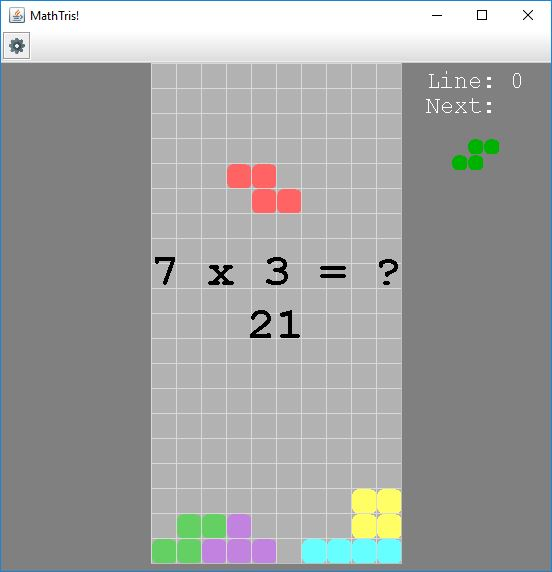
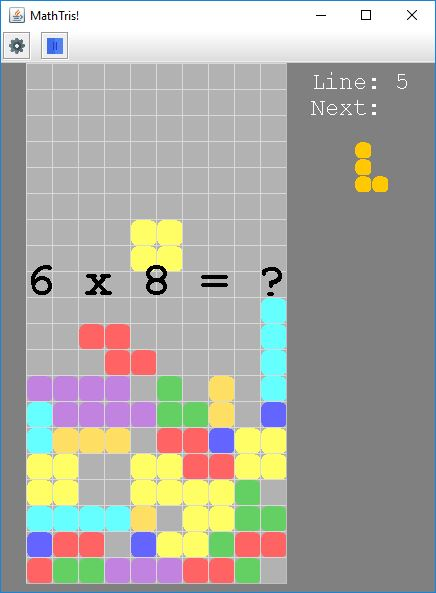
play, pause and new game when game over
hide the equation when the game is paused

diff --git a/src/game/Board.java b/src/game/Board.java
@@ -32,6 +32,7 @@ public class Board extends JPanel implements KeyListener {
 	private EquationGenerator equation;
 	private String answer;
 	private boolean isAnswered, gameOver;
+	private ToolBar toolBar;
 	
 	enum Move {
 		LEFT,
@@ -72,6 +73,8 @@ public class Board extends JPanel implements KeyListener {
 						nextShape = generateShape();
 						if (!canMove(Move.DOWN)) {
 							gameOver = true;
+							timer.stop();
+							toolBar.setNewGameButton();
 						}
 					}
 				}
@@ -83,8 +86,40 @@ public class Board extends JPanel implements KeyListener {
 		setRequestFocusEnabled(true);
 	}
 	
+	public void setToolBar(ToolBar toolBar) {
+		this.toolBar = toolBar;
+	}
+	
 	public EquationGenerator getEquationGenerator() {
 		return equation;
+	}
+	
+	public void play() {
+		timer.start();
+		// To display the equation quickly
+		repaint();
+	}
+	
+	public void pause() {
+		timer.stop();
+		// Force repaint to remove equation during pause
+		repaint();
+	}
+	
+	public void newGame() {
+		line = 0;
+		answer = "";
+		isAnswered = gameOver = false;
+		// Reset game
+		for (int i=0; i<Tetris.YCASE; i++) {
+			for (int j=0; j<Tetris.XCASE; j++) {
+				gBoard.get(i).get(j).key = false;
+				gBoard.get(i).get(j).value = Color.white;
+			}
+		}
+		currentShape = generateShape();
+		nextShape = generateShape();
+		repaint();
 	}
 	
 	private Shape generateShape() {
@@ -346,6 +381,7 @@ public class Board extends JPanel implements KeyListener {
 		if (gameOver) {
 			// Draw "Game over"
 			int gameover_width = fm.stringWidth("Game over!");
+			g.setFont(question_font.deriveFont((float)size-1));
 			g.setColor(Color.white);
 			g.drawString("Game over!", xPlayBegin+(xmax/2-gameover_width/2), y_pos+fm.getHeight());
 		} else {
@@ -354,11 +390,13 @@ public class Board extends JPanel implements KeyListener {
 				Color question_color = new Color(255, 255, 255, 100);
 				g.setColor(question_color);
 				g.fillRect(xPlayBegin, 0, xmax, ymax);
-				g.setColor(Color.black);
-				g.drawString(equation.toString(), xPlayBegin, y_pos);
-				// Draw the answer
-				int answer_width = fm.stringWidth(answer);
-				g.drawString(answer, xPlayBegin+(xmax/2-answer_width/2), y_pos+fm.getHeight());
+				if (timer.isRunning()) {
+					g.setColor(Color.black);
+					g.drawString(equation.toString(), xPlayBegin, y_pos);
+					// Draw the answer
+					int answer_width = fm.stringWidth(answer);
+					g.drawString(answer, xPlayBegin+(xmax/2-answer_width/2), y_pos+fm.getHeight());
+				}
 			}
 		}
 	}
@@ -387,9 +425,6 @@ public class Board extends JPanel implements KeyListener {
 				while (canMove(Move.DOWN) && isAnswered) {
 					currentShape.moveDown();
 				}
-				break;
-			case KeyEvent.VK_P:
-				timer.stop();
 				break;
 			case KeyEvent.VK_0:
 			case KeyEvent.VK_1:
@@ -424,14 +459,6 @@ public class Board extends JPanel implements KeyListener {
 			default:
 				break;
 			}	
-		} else {
-			switch (e.getKeyCode()) {
-			case KeyEvent.VK_P:
-				timer.start();
-				break;
-			default:
-				break;
-			}
 		}
 		repaint();
 	}

diff --git a/src/game/ToolBar.java b/src/game/ToolBar.java
@@ -22,7 +22,7 @@ public class ToolBar extends JToolBar implements ActionListener {
 	 * Icons made by "https://www.flaticon.com/authors/smashicons" from "https://www.flaticon.com/" is licensed by CC 3.0 BY
 	 * Icons made by "https://www.freepik.com/" from "https://www.flaticon.com/" is licensed by CC 3.0 BY
 	 */
-	private JButton btnSettings;
+	private JButton btnSettings, btnPlayPause;
 	private JFrame parent;
 	private Board board;
 
@@ -44,8 +44,11 @@ public class ToolBar extends JToolBar implements ActionListener {
 		setFloatable(false);
 		
 		btnSettings = new JButton();
+		btnPlayPause = new JButton();
 
 		addButton(btnSettings, getClass().getResource("/icons/settings.png"), "Game settings", "Games settings", "settings");
+		addSeparator();
+		addButton(btnPlayPause, getClass().getResource("/icons/play.png"), "Play", "Play", "play");
 	}
 	
 	private void addButton(JButton btn, URL icon_url, String tooltip, String text, String actionCommand) {
@@ -62,6 +65,23 @@ public class ToolBar extends JToolBar implements ActionListener {
 			add(btn);
 		}
 	}
+	
+	private void modifButton(JButton btn, URL icon_url, String tooltip, String text, String actionCommand) {
+		try {
+			ImageIcon icon = new ImageIcon(new ImageIcon(icon_url).getImage().getScaledInstance(16, 16, Image.SCALE_DEFAULT));
+			btn.setIcon(icon);
+			btn.setToolTipText(tooltip);
+			//btn.setBorderPainted(false);
+		} catch (Exception e) {
+			btn.setText(text);
+		} finally {
+			btn.setActionCommand(actionCommand);
+		}
+	}
+	
+	public void setNewGameButton() {
+		modifButton(btnPlayPause, getClass().getResource("/icons/new_play.png"), "New play", "New play", "new_play");
+	}
 
 	@Override
 	public void actionPerformed(ActionEvent e) {
@@ -75,6 +95,18 @@ public class ToolBar extends JToolBar implements ActionListener {
 				eg.generate();
 				board.repaint();
 			}
+			break;
+		case "play":
+			modifButton(btnPlayPause, getClass().getResource("/icons/pause.png"), "Pause", "Pause", "pause");
+			board.play();
+			break;
+		case "pause":
+			modifButton(btnPlayPause, getClass().getResource("/icons/play.png"), "Play", "Play", "play");
+			board.pause();
+			break;
+		case "new_play":
+			modifButton(btnPlayPause, getClass().getResource("/icons/play.png"), "Play", "Play", "play");
+			board.newGame();
 			break;
 		default:
 			break;

diff --git a/src/game/Tetris.java b/src/game/Tetris.java
@@ -22,6 +22,8 @@ public class Tetris extends JFrame {
 
 		board = new Board();
 		toolBar = new ToolBar(this, board, JToolBar.HORIZONTAL);
+		// Not the best solution but it's until we have something better
+		board.setToolBar(toolBar);
 		
 		add(toolBar, BorderLayout.NORTH);
 		add(board, BorderLayout.CENTER);
